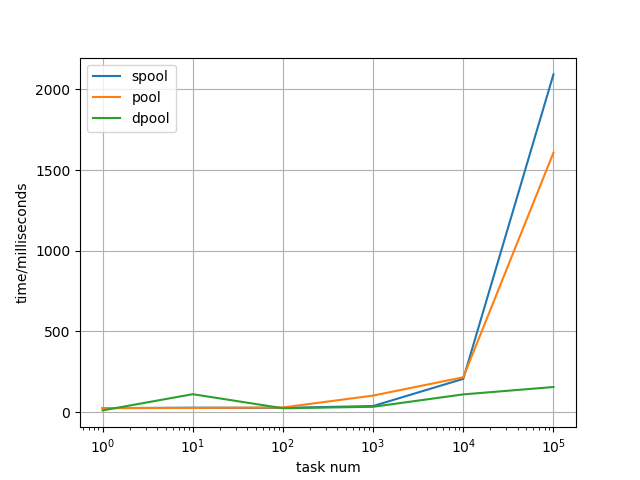
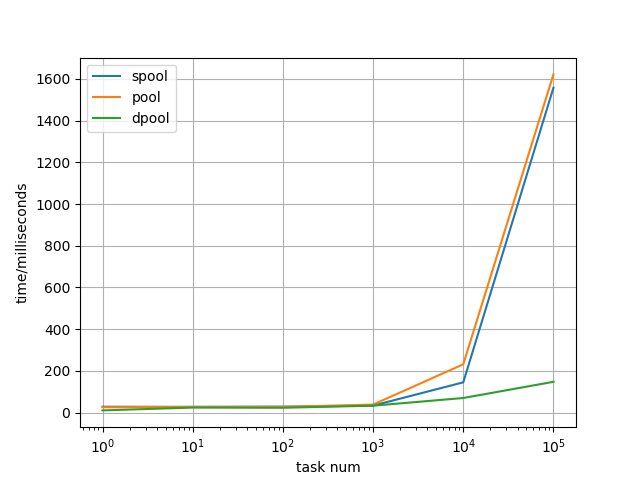
Removed shared_ptr to boost performance

diff --git a/includes/dynamic_pool.hpp b/includes/dynamic_pool.hpp
@@ -121,15 +121,14 @@ template <std::size_t Sz, typename Func, typename ... Args>
 auto dpool::enqueue(Func &&f, Args &&... args) -> std::future<typename std::result_of<Func(Args...)>::type>
 {
     using return_type = typename std::result_of<Func(Args...)>::type;
-    auto task = std::make_shared< std::packaged_task<return_type()> >(
-            std::bind(std::forward<Func>(f), std::forward<Args>(args)...));
+    std::packaged_task<return_type()>* task = nullptr; // Why raw pointer? See comments in static_pool.hpp's enqueue().
+    try_allocate(task, std::forward<Func>(f), std::forward<Args>(args)...);
     auto result = task->get_future();
-    GANLER_DEBUG_DETAIL(current_threads())
     if(m_idle_num == 0)
         for (int i = 0; i < std::min(Sz, m_max_idle_size); ++i)
             make_worker();
     std::unique_lock<std::mutex> lock(m_mu);
-    m_task_queue.emplace([task](){ (*task)(); });
+    m_task_queue.emplace([task](){ (*task)(); delete task; });
     m_cv.notify_one();
     return result;
 }
@@ -139,8 +138,8 @@ auto dpool::enqueue(Func &&f, Args &&... args) -> std::future<typename std::resu
 {
     using return_type = typename std::result_of<Func(Args...)>::type;
     static std::size_t queue_size = 0;
-    auto task = std::make_shared< std::packaged_task<return_type()> >(
-            std::bind(std::forward<Func>(f), std::forward<Args>(args)...));
+    std::packaged_task<return_type()>* task = nullptr; // Why raw pointer? See comments in static_pool.hpp's enqueue().
+    try_allocate(task, std::forward<Func>(f), std::forward<Args>(args)...);
     auto result = task->get_future();
     GANLER_DEBUG_DETAIL(current_threads())
     if(m_idle_num == 0)

diff --git a/includes/static_pool.hpp b/includes/static_pool.hpp
@@ -61,11 +61,15 @@ template <std::size_t Sz> template <typename Func, typename ... Args>
 auto spool<Sz>::enqueue(Func &&f, Args &&... args) -> std::future<typename std::result_of<Func(Args...)>::type>
 {
     using return_type = typename std::result_of<Func(Args...)>::type;
-    auto task = std::make_shared< std::packaged_task<return_type()> >(  // TODO: Use raw ptr with exception to boost performance.
-        std::bind(std::forward<Func>(f), std::forward<Args>(args)...)); // Just use raw ptr if you don't care exception.
+// >>> [Original std::shared_ptr version]. Actually in Cpp14 new standard we can use std::unique_ptr.
+// But some new compilers are still using old libc++ version.  So I used raw ptr to make my code more compatible.
+//    auto task = std::make_shared< std::packaged_task<return_type()> >(
+//      std::bind(std::forward<Func>(f), std::forward<Args>(args)...)); // Just use raw ptr if you don't care exception.
+    std::packaged_task<return_type()>* task = nullptr;
+    try_allocate(task, std::forward<Func>(f), std::forward<Args>(args)...);
     auto result = task->get_future();
     std::unique_lock<std::mutex> lock(m_mu);
-    m_task_queue.emplace( [task](){ (*task)(); } ); // The benefit of lambda: you get more chance to inline the code.
+    m_task_queue.emplace( [task](){ (*task)(); delete task; } ); // The benefit of lambda: get more chance to inline.
     m_cv.notify_one();
     return result;
 }

diff --git a/includes/default_pool.hpp b/includes/default_pool.hpp
@@ -56,11 +56,11 @@ template <typename Func, typename ... Args>
 auto pool::enqueue(Func &&f, Args &&... args) -> std::future<typename std::result_of<Func(Args...)>::type>
 {
     using return_type = typename std::result_of<Func(Args...)>::type;
-    auto task = std::make_shared< std::packaged_task<return_type()> >(
-            std::bind(std::forward<Func>(f), std::forward<Args>(args)...));
+    std::packaged_task<return_type()>* task = nullptr; // Why raw pointer? See comments in static_pool.hpp's enqueue().
+    try_allocate(task, std::forward<Func>(f), std::forward<Args>(args)...);
     auto result = task->get_future();
     std::unique_lock<std::mutex> lock(m_mu);
-    m_task_queue.emplace([task](){ (*task)(); });
+    m_task_queue.emplace( [task](){ (*task)(); delete task; } ); // The benefit of lambda: get more chance to inline.
     m_cv.notify_one();
     return result;
 }

diff --git a/includes/util.hpp b/includes/util.hpp
@@ -11,3 +11,27 @@
 #else
 #define GANLER_DEBUG_DETAIL(X) {}
 #endif
+
+
+#include <type_traits>
+
+namespace thread_pools
+{
+
+template <typename Type, typename Func, typename ... Args>
+inline void try_allocate(Type& task, Func&& f, Args&& ... args)
+{
+    try{
+        task = new typename std::remove_pointer<Type>::type(std::bind(std::forward<Func>(f), std::forward<Args>(args)...));
+    } catch(const std::bad_alloc& e)
+    {
+        std::cerr << "Bad allocation occured when newing a std::packaged_task: " << e.what() << '\n';
+    } catch (const std::exception& e)
+    {
+        if(task != nullptr)
+            delete task;
+        std::cerr << "This exception has nothing to do with std::bad_alloc: " << e.what() << '\n';
+    }
+}
+
+}

diff --git a/benchmark.cpp b/benchmark.cpp
@@ -92,5 +92,4 @@ int main() {
     ADD_PYLINE("plt.legend(['spool', 'pool', 'dpool'])")
 
     out << PY_PLOT_SCRIPT;
-
 }

diff --git a/README.md b/README.md
@@ -55,15 +55,27 @@ cmake .. && make -j4 && ./thread_pools
 
 Copy the output python script and run it. You can see the results.
 (Note that each task cost 10ms. For each pool, it can at most create `psize` threads to finish `mission_sz` tasks.)
+
 ![](images/benchmark.png)
 
 ## How I designed the dynamic pool
 
 ![](images/thread_theory.png)
 
+## Task and pointers
+
+For most thread pool library, they use `std::shared_ptr` pointer to manage the `std::packaged_task<...>`. This is not efficient as it allocation more memory for 2 atomic counter. And C++ standard made old C++ versions(C++11 and former C++14)'s unique_ptr not compile when enqueuing such tasks. Hence I decided to use raw pointers with some exception code to boost the performance.
+
+After removing the shared_ptr. The performance has been boosted by about 20%~30%.
+
+See my comments on `spool::enqueue` in static_pool.hpp for more details.
+
+Old shared_ptr version's performance:
+
+![](images/shared_ptr_benchmark.png)
+
 ## TODOS
 
 - Thread pool that holds fixed kind of functions. (Reduce dynamic allocation when std::function<void()> SOO cannot work)
-- Replace shared_ptr<std::packaged_task<...>> with exception-safety wrapped raw pointer.
 - Lock-free thread pool.
 - Comparision with other libraries.
